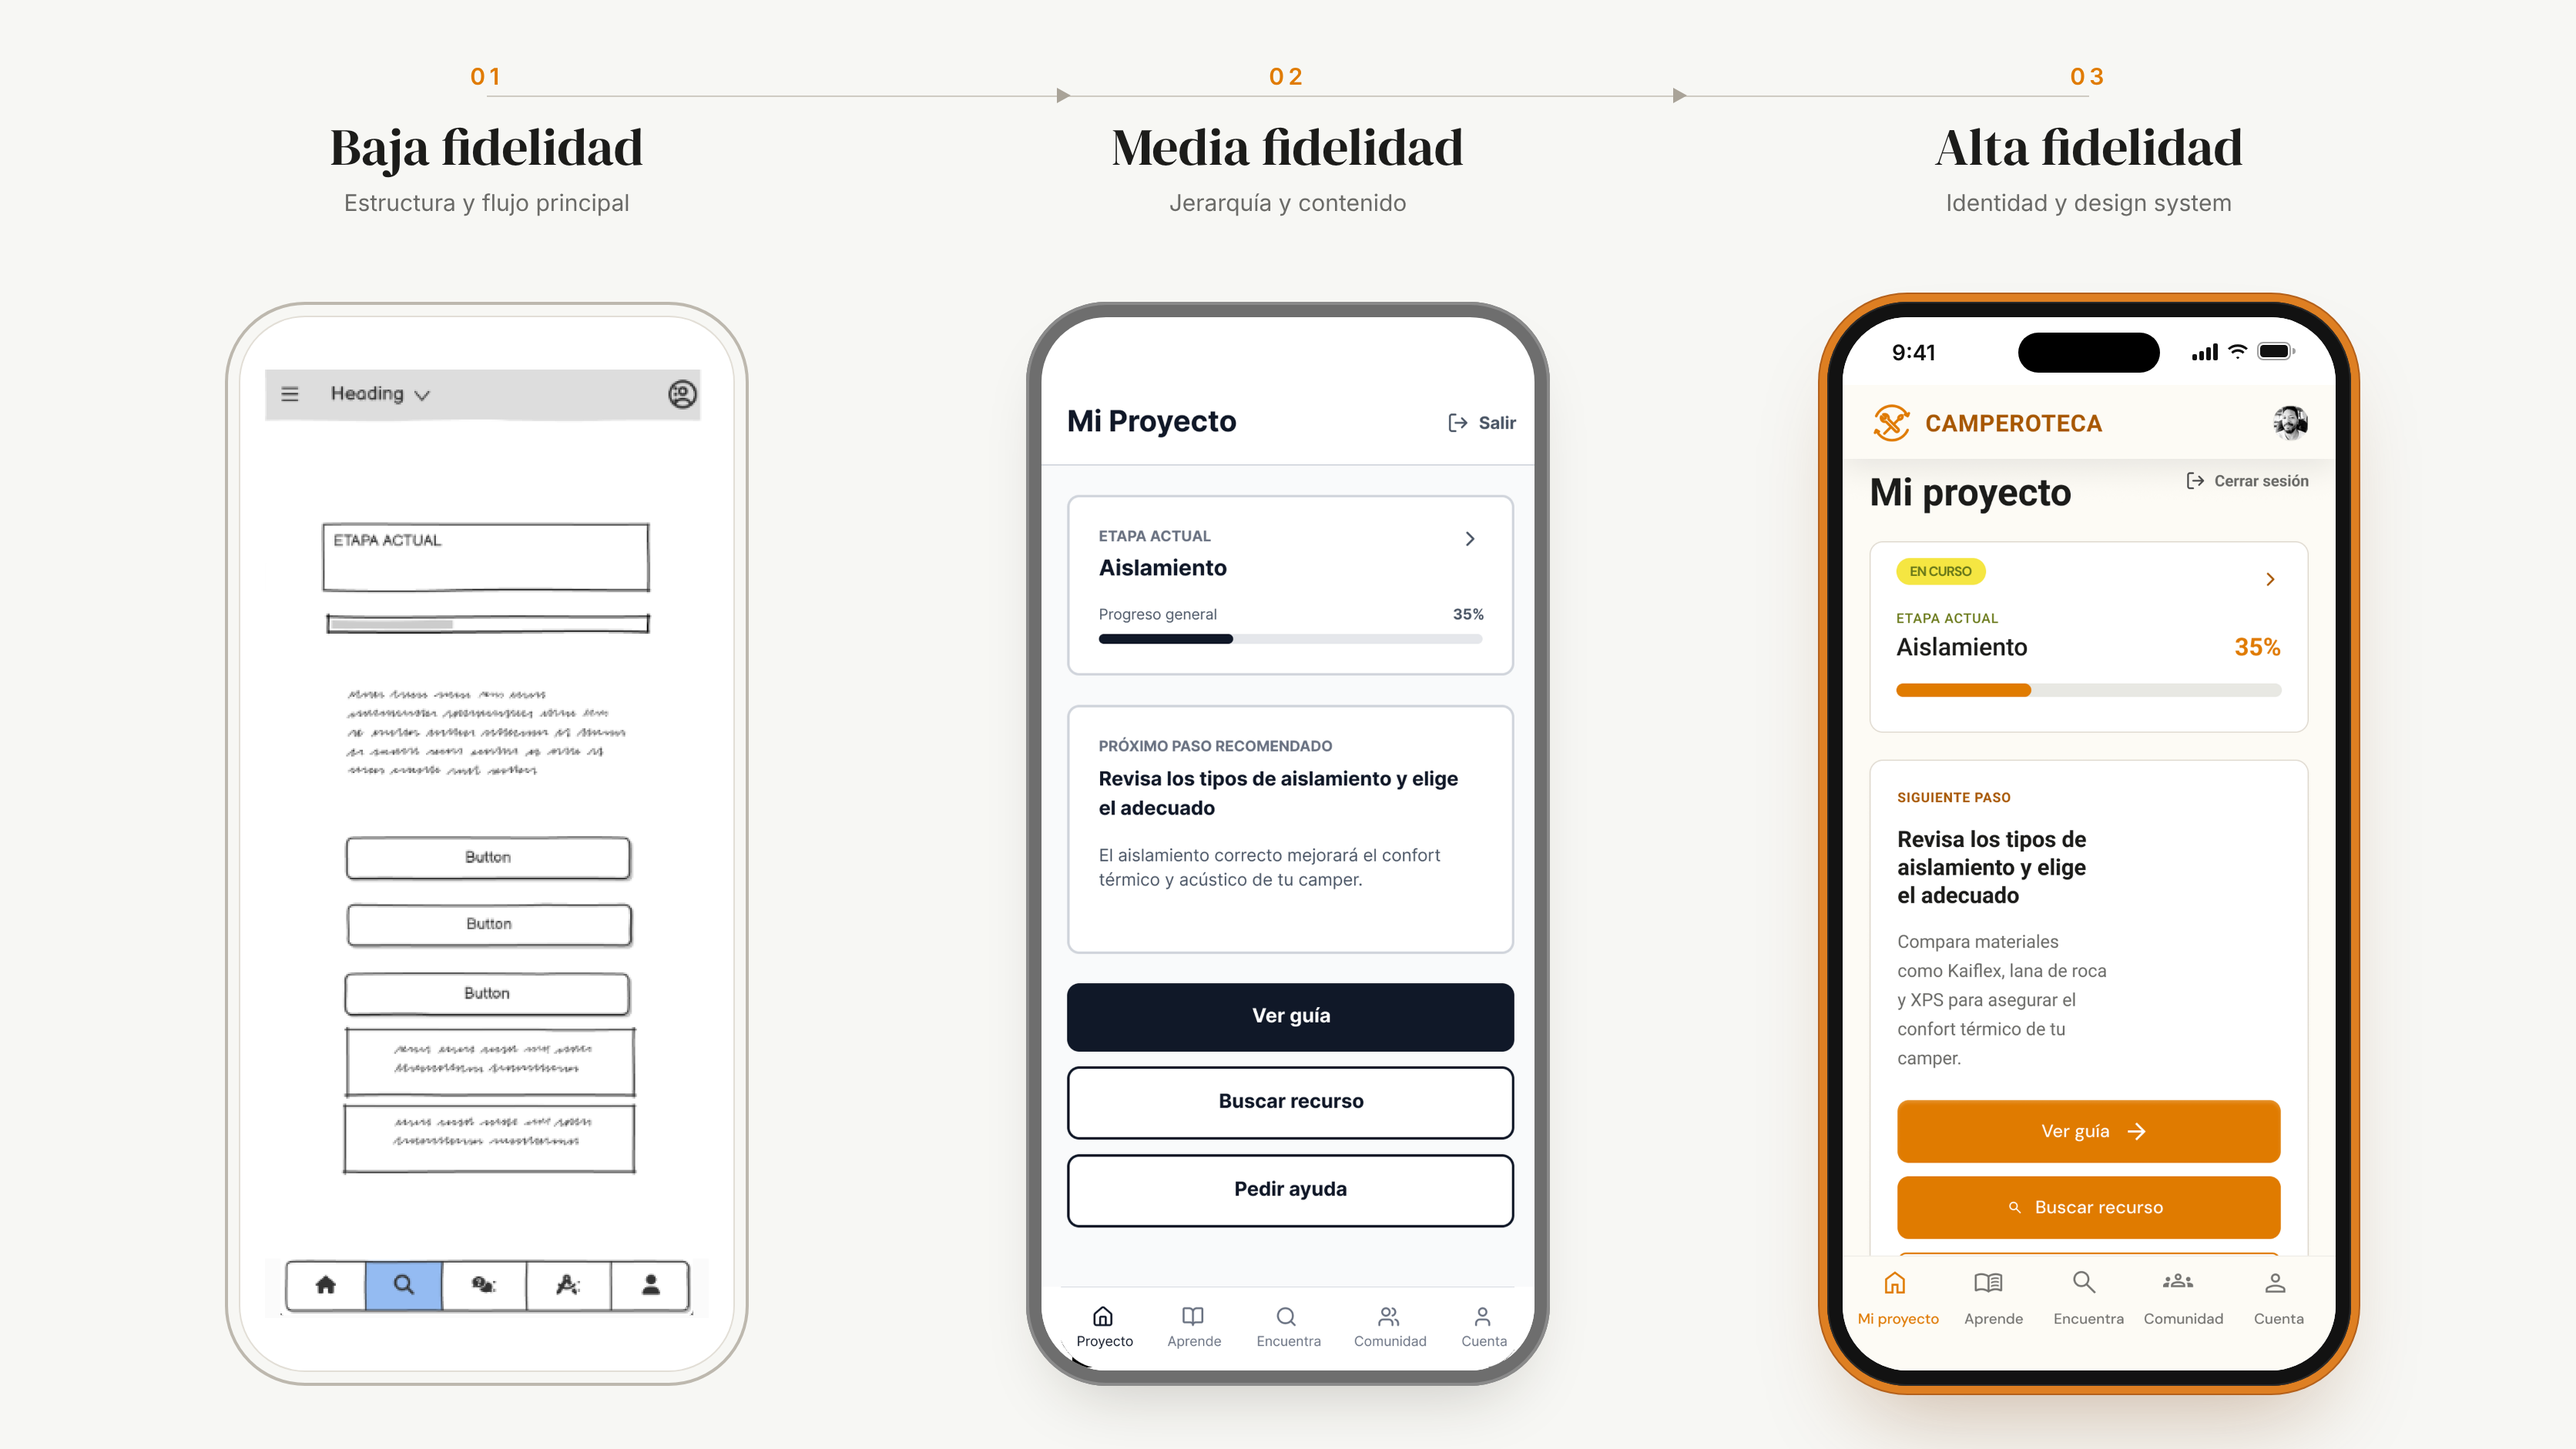
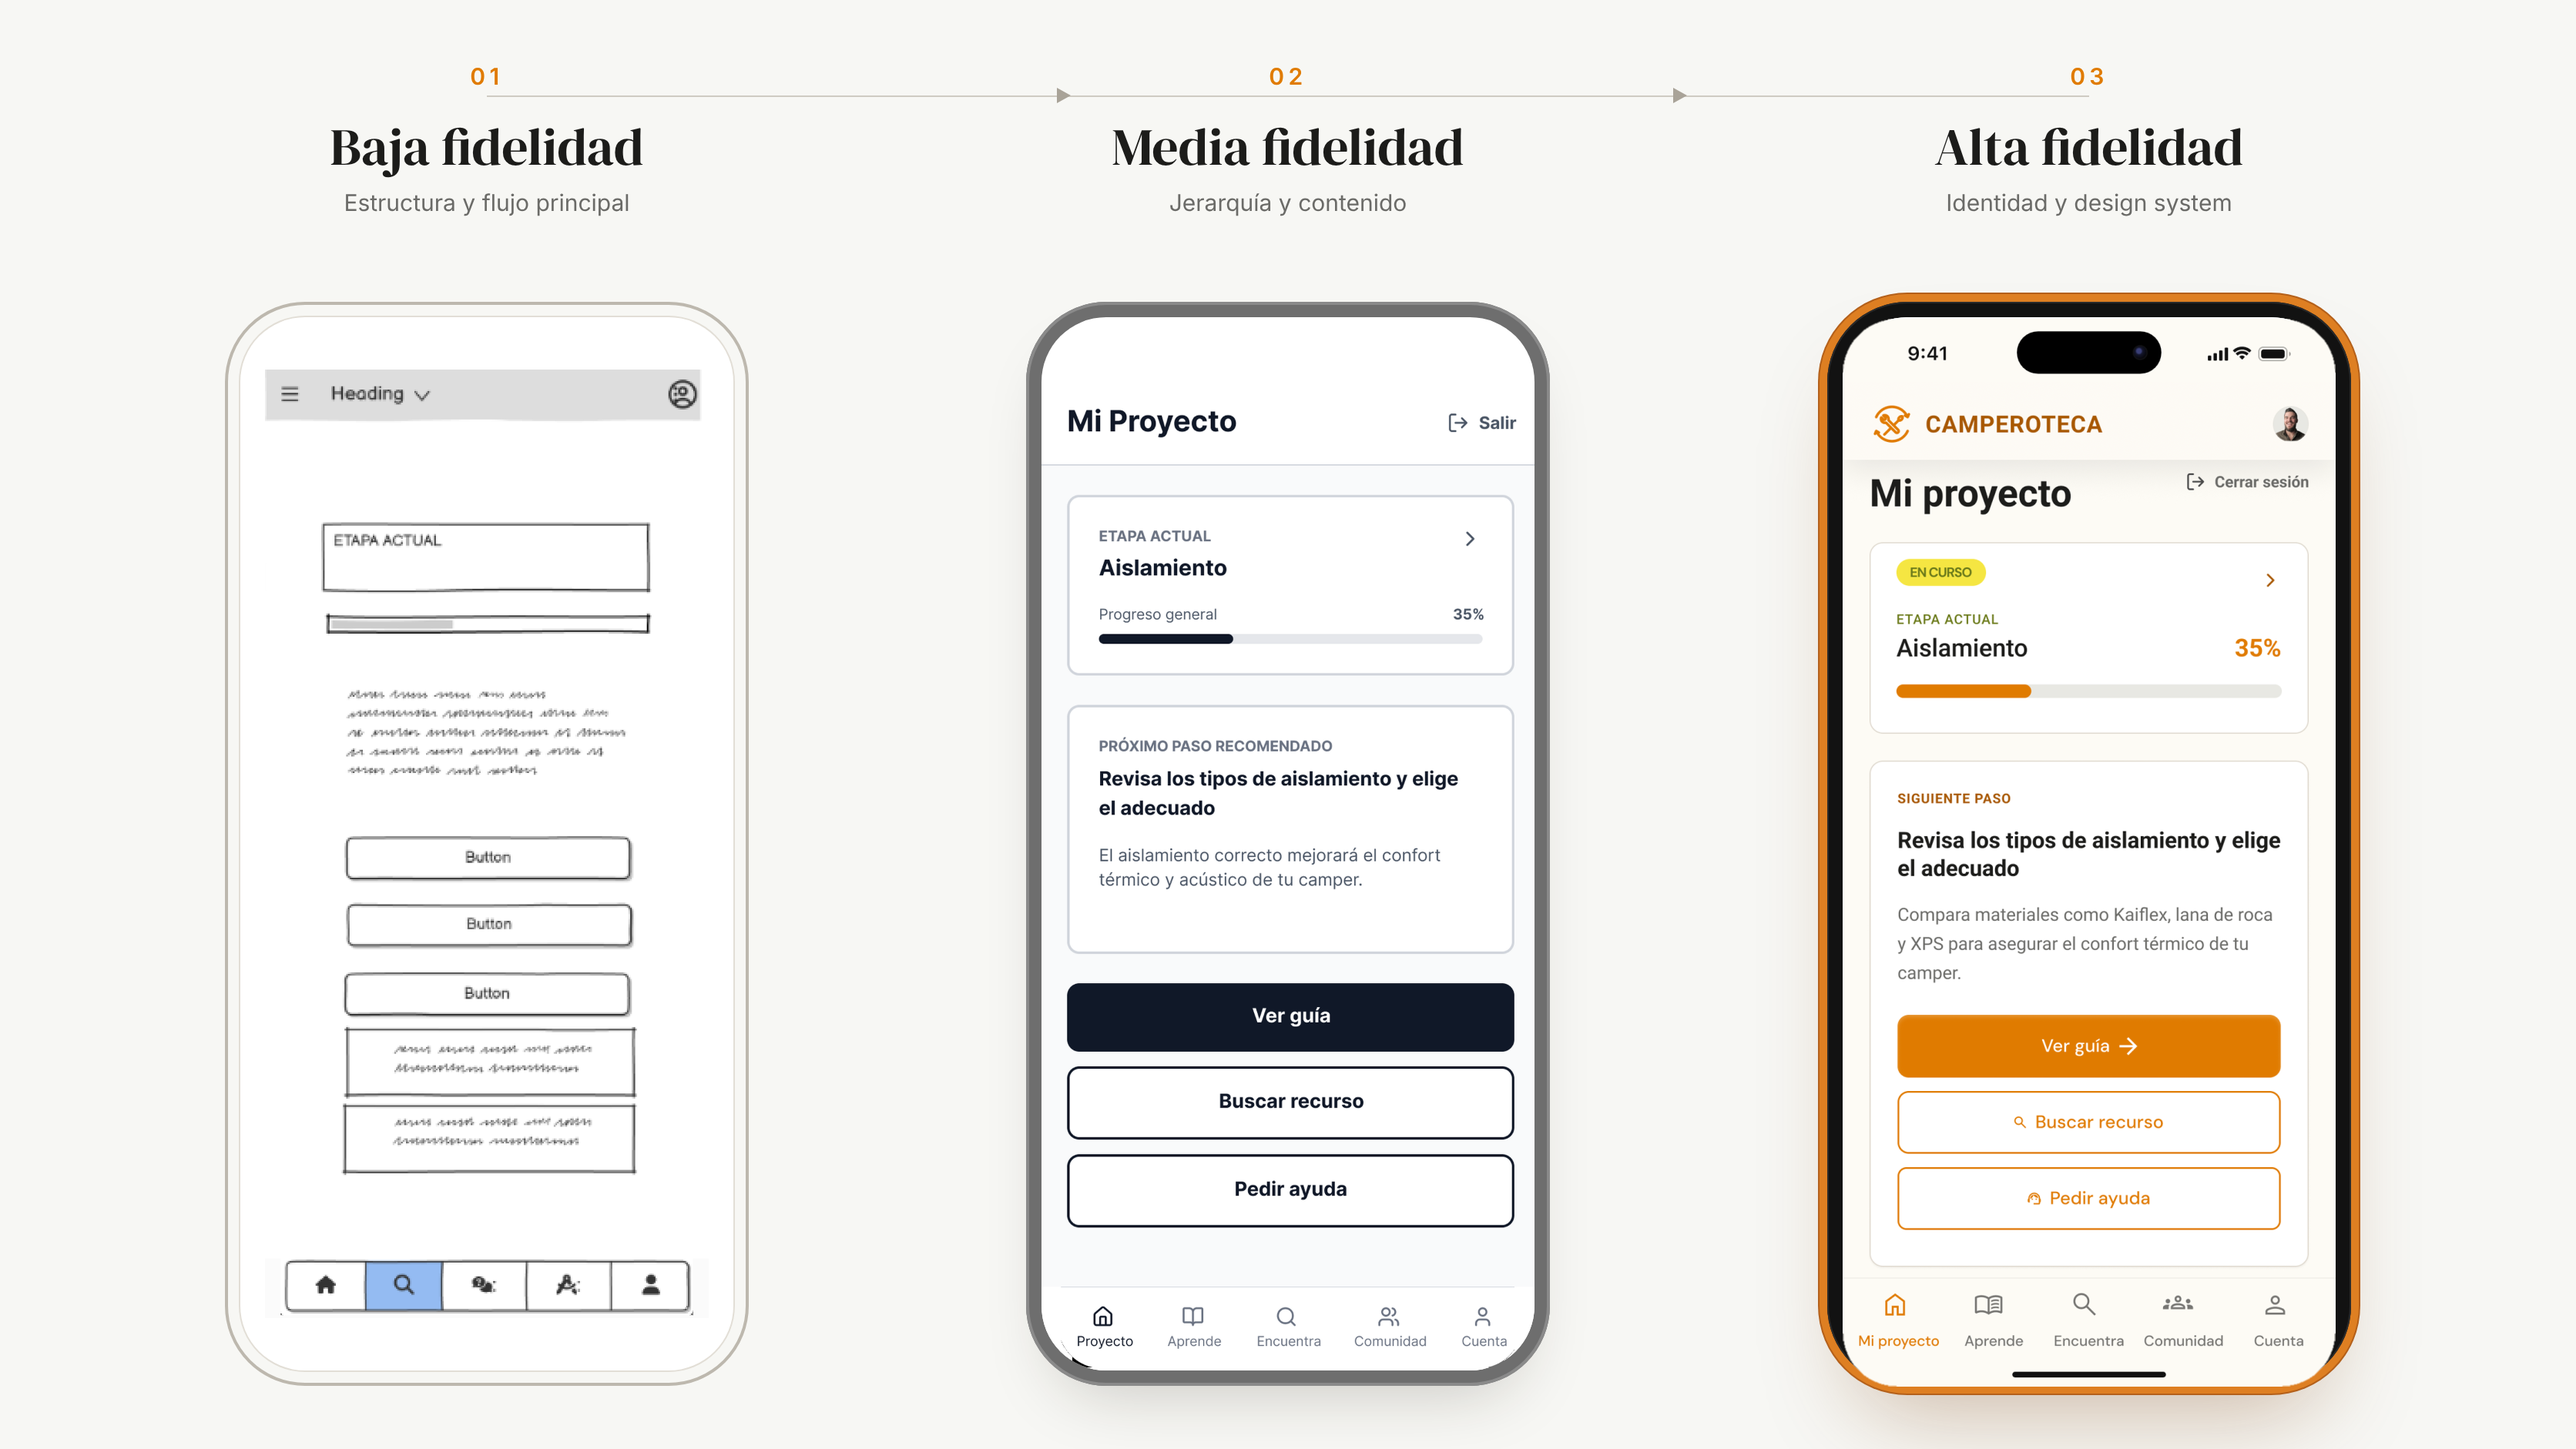
Camperoteca: suaviza el coste de las decisiones, materiales en Encuentra y alta fidelidad actualizada
Claude-Session: https://claude.ai/code/session_01TEdqrpnZcf8J1xZeV9Kjg7

diff --git a/app/[lang]/work/camperoteca/page.tsx b/app/[lang]/work/camperoteca/page.tsx
@@ -78,7 +78,7 @@ const copy = {
     /* 02 */
     prob_label: "Problema y oportunidad",
     prob_title: "Un proceso complejo, sin guía ni recursos compartidos",
-    prob_body: "Camperizar una furgoneta por cuenta propia es técnicamente complejo y económicamente exigente. El proceso carece de un orden claro, la información está dispersa y las decisiones mal tomadas tienen coste real. Al mismo tiempo, los materiales y herramientas que se usan puntualmente — y cuestan — terminan sin uso una vez acabada esa fase. Una comunidad que comparte recursos existe, pero sin un canal que la articule.",
+    prob_body: "Camperizar una furgoneta por cuenta propia es técnicamente complejo y económicamente exigente. El proceso carece de un orden claro, la información está dispersa y las decisiones mal tomadas pueden tener coste real. Al mismo tiempo, los materiales y herramientas que se usan puntualmente — y cuestan — terminan sin uso una vez acabada esa fase. Una comunidad que comparte recursos existe, pero sin un canal que la articule.",
     prob_opp: "La oportunidad: una plataforma que guiara el proceso y activara la comunidad — donde materiales, herramientas y conocimiento circularan entre privados por préstamo o intercambio. Orientación y economía circular en un mismo lugar.",
     /* 03 */
     research_label: "UX Research",
@@ -141,7 +141,7 @@ const copy = {
       { t: "Onboarding", d: "Entiende cómo funciona por etapas.", cta: "Empezar mi proyecto" },
       { t: "Login o Registro", d: "Inicia sesión o crea su cuenta.", cta: "Iniciar sesión" },
       { t: "Mi Proyecto", d: "Ve su etapa y el siguiente paso.", cta: "Buscar recurso", hub: true },
-      { t: "Encuentra", d: "Localiza una herramienta cerca y ve a qué distancia está.", cta: "Pedir préstamo" },
+      { t: "Encuentra", d: "Localiza una herramienta o material cerca y ve a qué distancia está.", cta: "Pedir préstamo" },
       { t: "Solicitud", d: "Pide el préstamo con fechas y un mensaje.", cta: "Enviar solicitud" },
       { t: "Solicitud enviada", d: "Recibe la confirmación y sigue con su proyecto.", cta: "" },
     ],
@@ -276,7 +276,7 @@ const copy = {
 
     prob_label: "Problem & Opportunity",
     prob_title: "A complex process, with no guidance or shared resources",
-    prob_body: "Converting a van on your own is technically complex and financially demanding. The process has no clear order, information is scattered and poorly timed decisions carry real cost. At the same time, materials and tools used briefly — at real cost — end up idle once that phase is over. A community that shares resources exists, but without a channel to bring it together.",
+    prob_body: "Converting a van on your own is technically complex and financially demanding. The process has no clear order, information is scattered and poorly timed decisions can carry real cost. At the same time, materials and tools used briefly — at real cost — end up idle once that phase is over. A community that shares resources exists, but without a channel to bring it together.",
     prob_opp: "The opportunity: a platform that guides the process and activates the community — where materials, tools and knowledge flow between individuals through lending or exchange. Guidance and circular economy in one place.",
     research_label: "UX Research",
     research_title: "Research before design",
@@ -335,7 +335,7 @@ const copy = {
       { t: "Onboarding", d: "Understands how it works by stage.", cta: "Start my project" },
       { t: "Log in or Sign up", d: "Logs in or creates an account.", cta: "Log in" },
       { t: "My Project", d: "Sees their stage and the next step.", cta: "Find a resource", hub: true },
-      { t: "Find", d: "Finds a tool nearby and sees how far away it is.", cta: "Borrow" },
+      { t: "Find", d: "Finds a tool or material nearby and sees how far away it is.", cta: "Borrow" },
       { t: "Request", d: "Asks to borrow it with dates and a message.", cta: "Send request" },
       { t: "Request sent", d: "Gets the confirmation and carries on with the project.", cta: "" },
     ],
@@ -463,7 +463,7 @@ const copy = {
 
     prob_label: "Problema e oportunidade",
     prob_title: "Um processo complexo, sem orientação nem recursos compartilhados",
-    prob_body: "Camperizar uma van por conta própria é tecnicamente complexo e economicamente exigente. O processo não tem uma ordem clara, a informação está dispersa e as decisões mal tomadas têm custo real. Ao mesmo tempo, os materiais e ferramentas usados pontualmente — e que custam — ficam sem uso assim que essa fase termina. Existe uma comunidade que compartilha recursos, mas sem um canal que a articule.",
+    prob_body: "Camperizar uma van por conta própria é tecnicamente complexo e economicamente exigente. O processo não tem uma ordem clara, a informação está dispersa e as decisões mal tomadas podem ter custo real. Ao mesmo tempo, os materiais e ferramentas usados pontualmente — e que custam — ficam sem uso assim que essa fase termina. Existe uma comunidade que compartilha recursos, mas sem um canal que a articule.",
     prob_opp: "A oportunidade: uma plataforma que orientasse o processo e ativasse a comunidade — onde materiais, ferramentas e conhecimento circulassem entre particulares por empréstimo ou troca. Orientação e economia circular em um mesmo lugar.",
     research_label: "UX Research",
     research_title: "Pesquisar antes de projetar",
@@ -522,7 +522,7 @@ const copy = {
       { t: "Onboarding", d: "Entende como funciona por etapas.", cta: "Começar meu projeto" },
       { t: "Login ou Cadastro", d: "Faz login ou cria uma conta.", cta: "Entrar" },
       { t: "Meu Projeto", d: "Vê sua etapa e o próximo passo.", cta: "Buscar recurso", hub: true },
-      { t: "Encontra", d: "Encontra uma ferramenta por perto e vê a que distância está.", cta: "Pedir emprestado" },
+      { t: "Encontra", d: "Encontra uma ferramenta ou material por perto e vê a que distância está.", cta: "Pedir emprestado" },
       { t: "Solicitação", d: "Pede o empréstimo com datas e uma mensagem.", cta: "Enviar solicitação" },
       { t: "Solicitação enviada", d: "Recebe a confirmação e segue com o projeto.", cta: "" },
     ],
